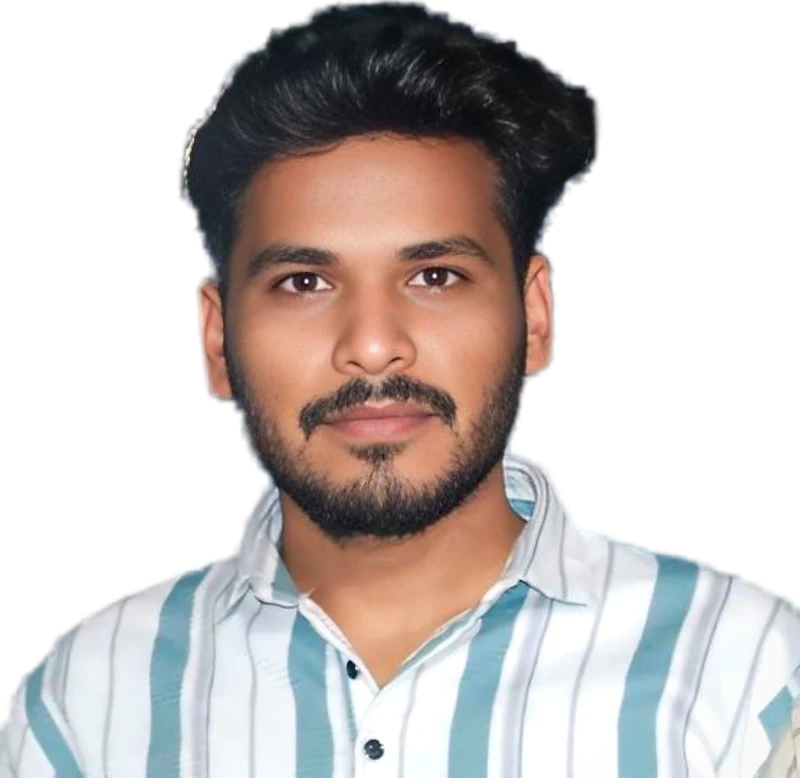
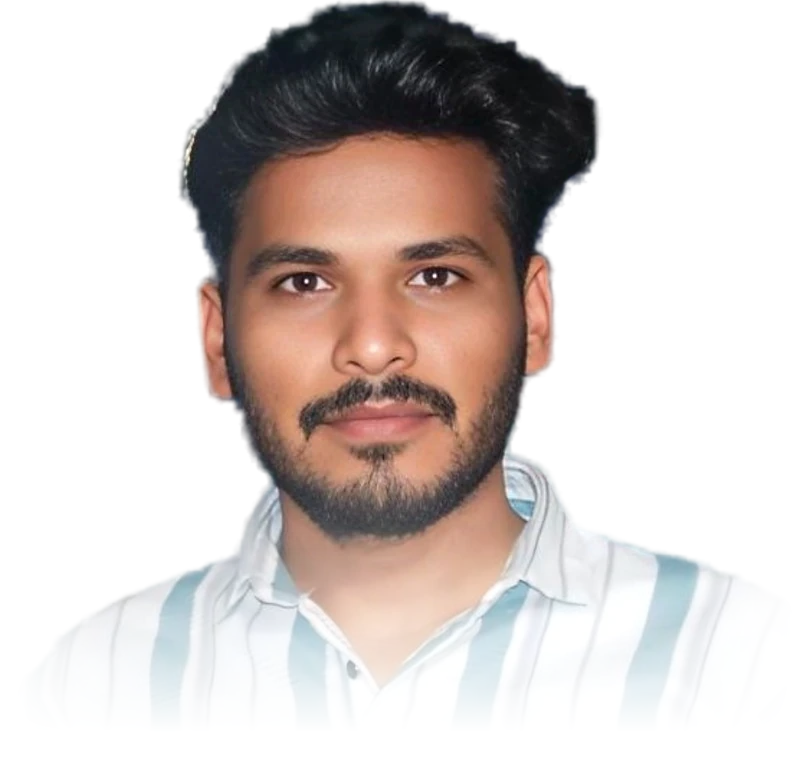
Series hero: frameless portrait with baked-in edge fade

diff --git a/src/series/series.tsx b/src/series/series.tsx
@@ -171,25 +171,17 @@ export function Series({ d }: { d: SeriesData }) {
                 </button>
               </div>
             </div>
-            <div className="sr-hero-in relative mx-auto w-full max-w-sm">
-              <div className="absolute -inset-6 rounded-2xl bg-[var(--red)]/30 blur-3xl" aria-hidden />
-              <div className="sr-portrait relative overflow-hidden rounded-xl border border-[var(--red)]/40 bg-[#141414] p-3 shadow-2xl">
-                <span className="absolute top-5 left-5 z-20 rounded bg-[var(--red)] px-2 py-1 text-[11px] font-bold">FEATURED ENGINEER</span>
-                {/* dark stage with red rim light; the background-free cutout stands in front */}
-                <div className="relative aspect-[4/5] w-full overflow-hidden rounded-lg bg-[radial-gradient(75%_60%_at_50%_35%,#3a0d12_0%,#170709_55%,#0b0b0b_100%)]">
-                  <div aria-hidden className="absolute inset-x-[12%] top-[14%] h-[58%] rounded-full bg-[var(--red)]/45 blur-[60px]" />
-                  <div aria-hidden className="absolute inset-0 bg-[repeating-linear-gradient(0deg,rgba(255,255,255,0.025)_0_1px,transparent_1px_4px)]" />
-                  <Image
-                    src="/portrait-cutout.webp"
-                    alt="Eshwar Kadam"
-                    width={800}
-                    height={778}
-                    priority
-                    className="absolute bottom-0 left-1/2 w-[112%] max-w-none -translate-x-1/2 drop-shadow-[0_0_28px_rgba(229,29,46,0.35)]"
-                  />
-                  <div aria-hidden className="absolute inset-x-0 bottom-0 h-1/4 bg-gradient-to-t from-[#141414] to-transparent" />
-                </div>
-              </div>
+            {/* frameless: the background-free cutout stands on the page with a red glow behind */}
+            <div className="sr-hero-in sr-portrait relative mx-auto w-full max-w-md">
+              <div aria-hidden className="pointer-events-none absolute inset-x-[10%] top-[8%] h-[60%] rounded-full bg-[var(--red)]/40 blur-[80px]" />
+              <Image
+                src="/portrait-cutout.webp"
+                alt="Eshwar Kadam"
+                width={800}
+                height={772}
+                priority
+                className="relative w-full"
+              />
             </div>
           </div>
         </section>
